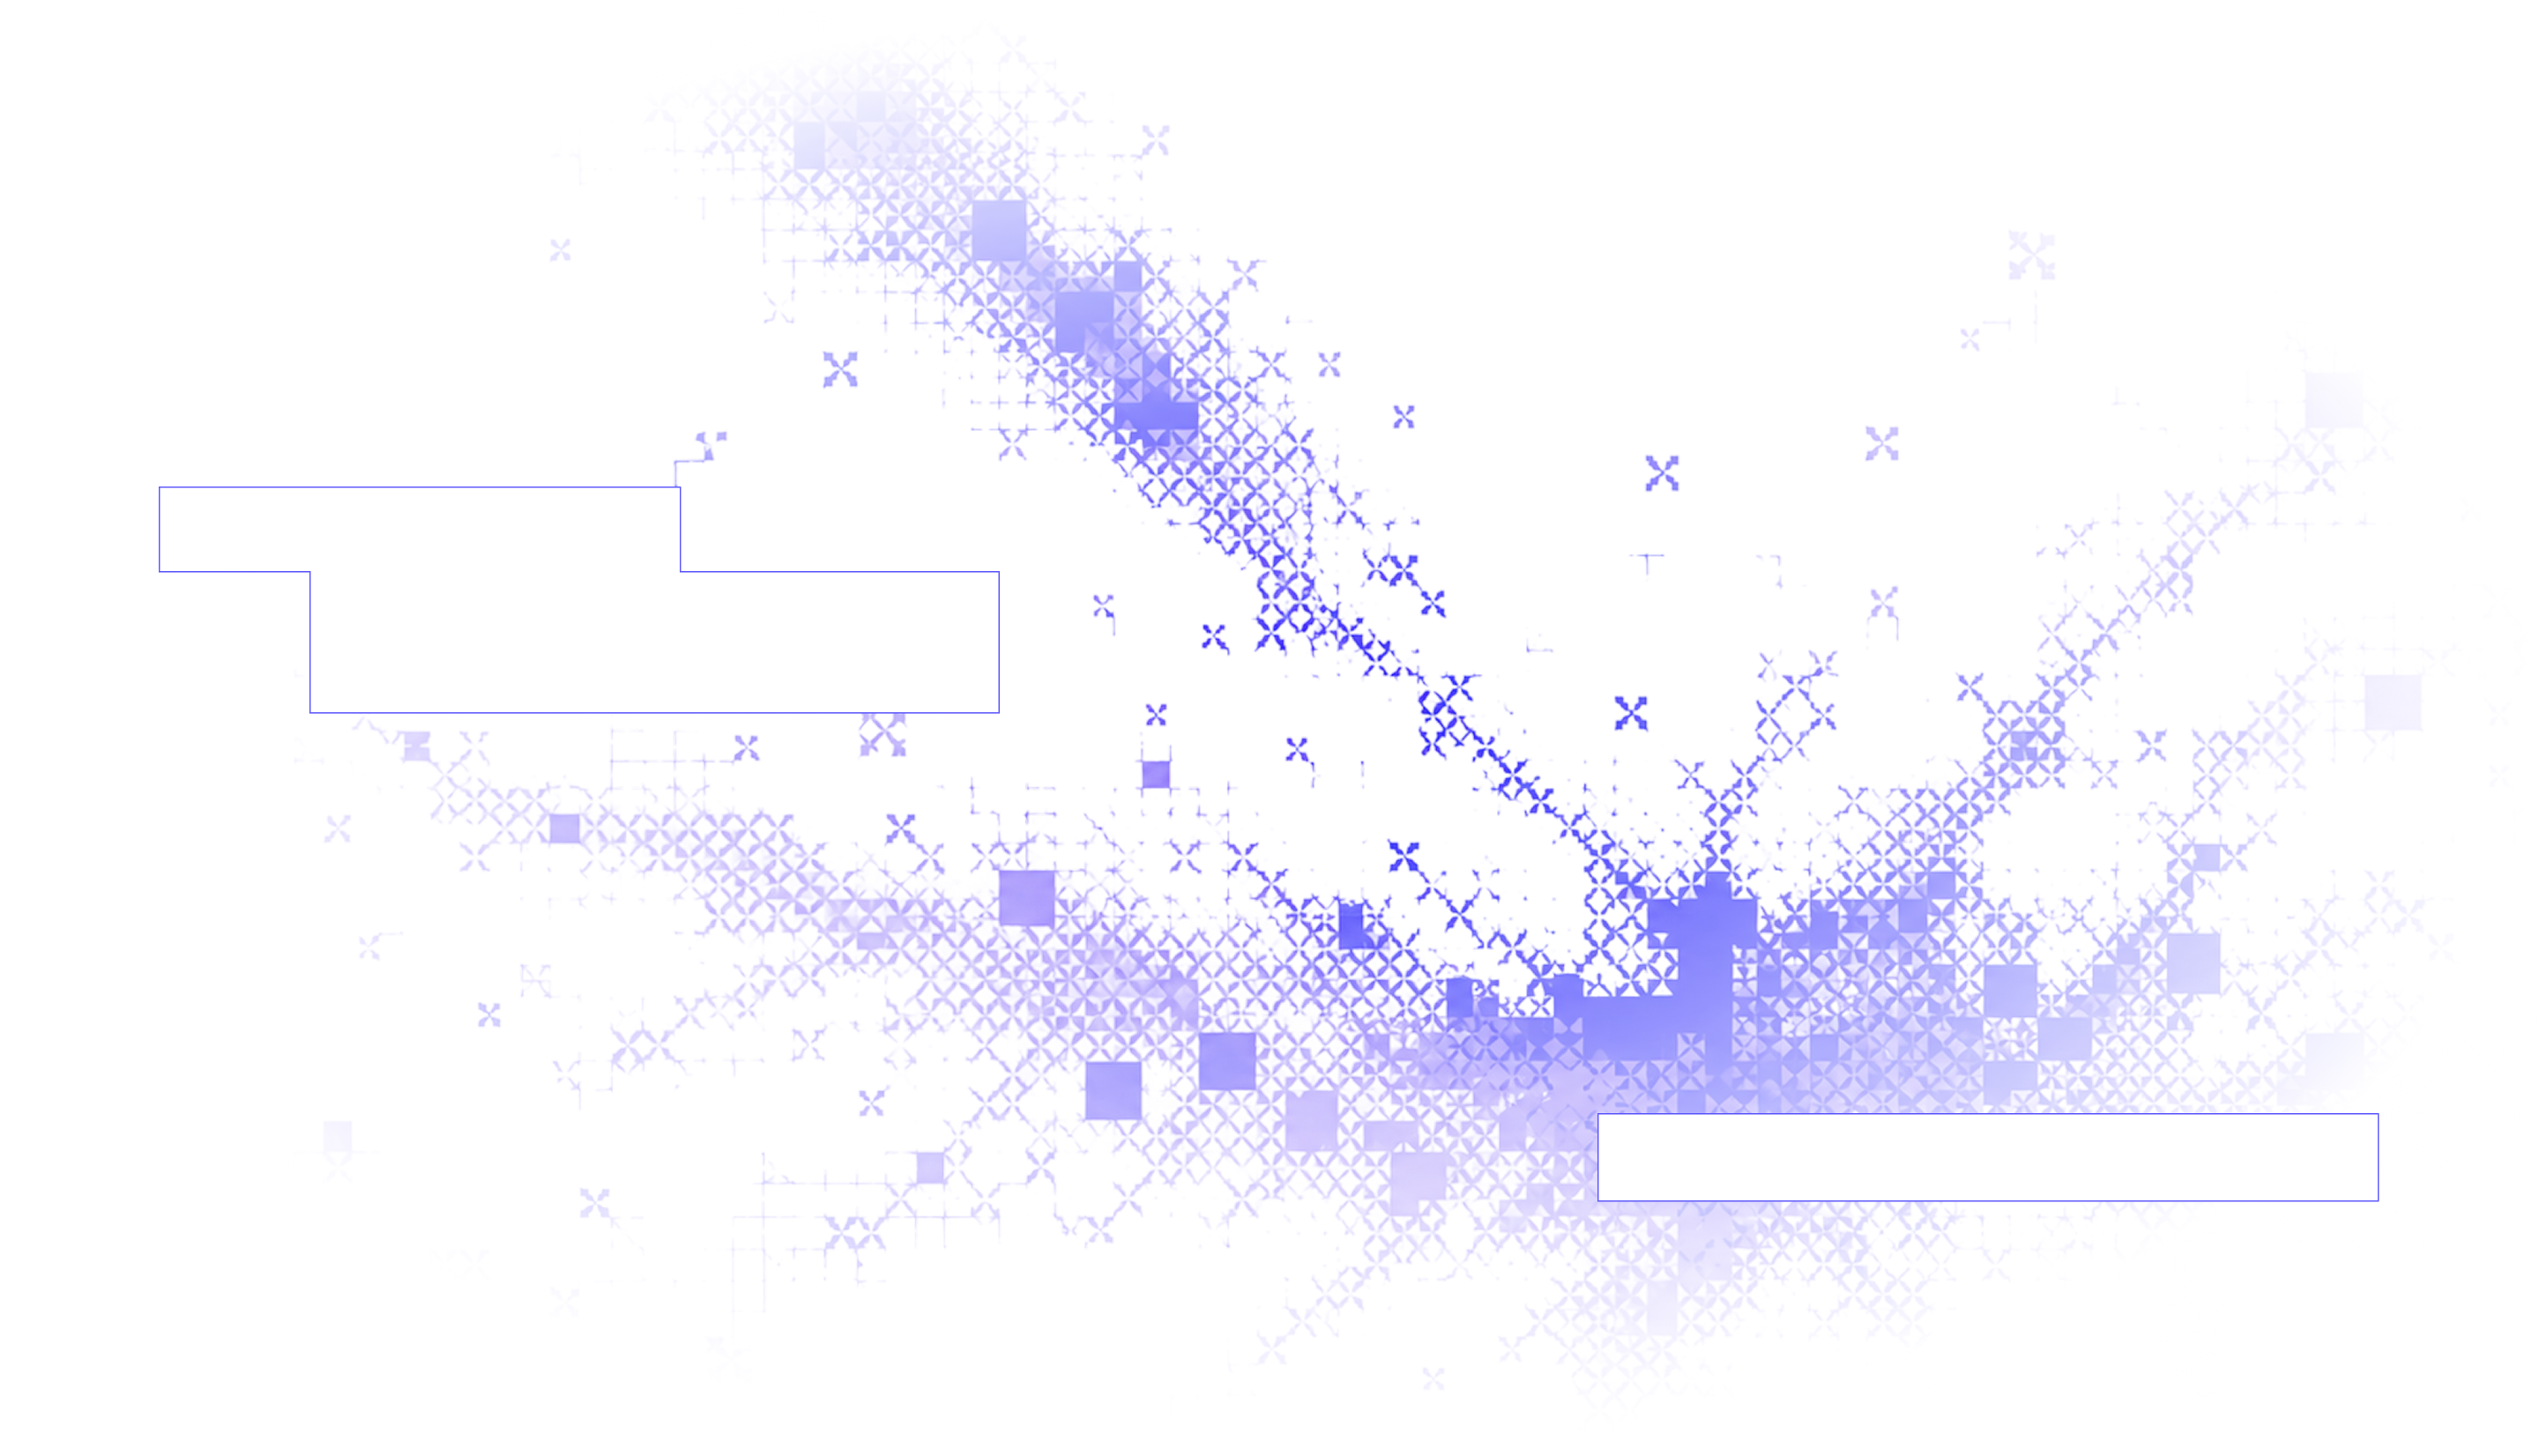
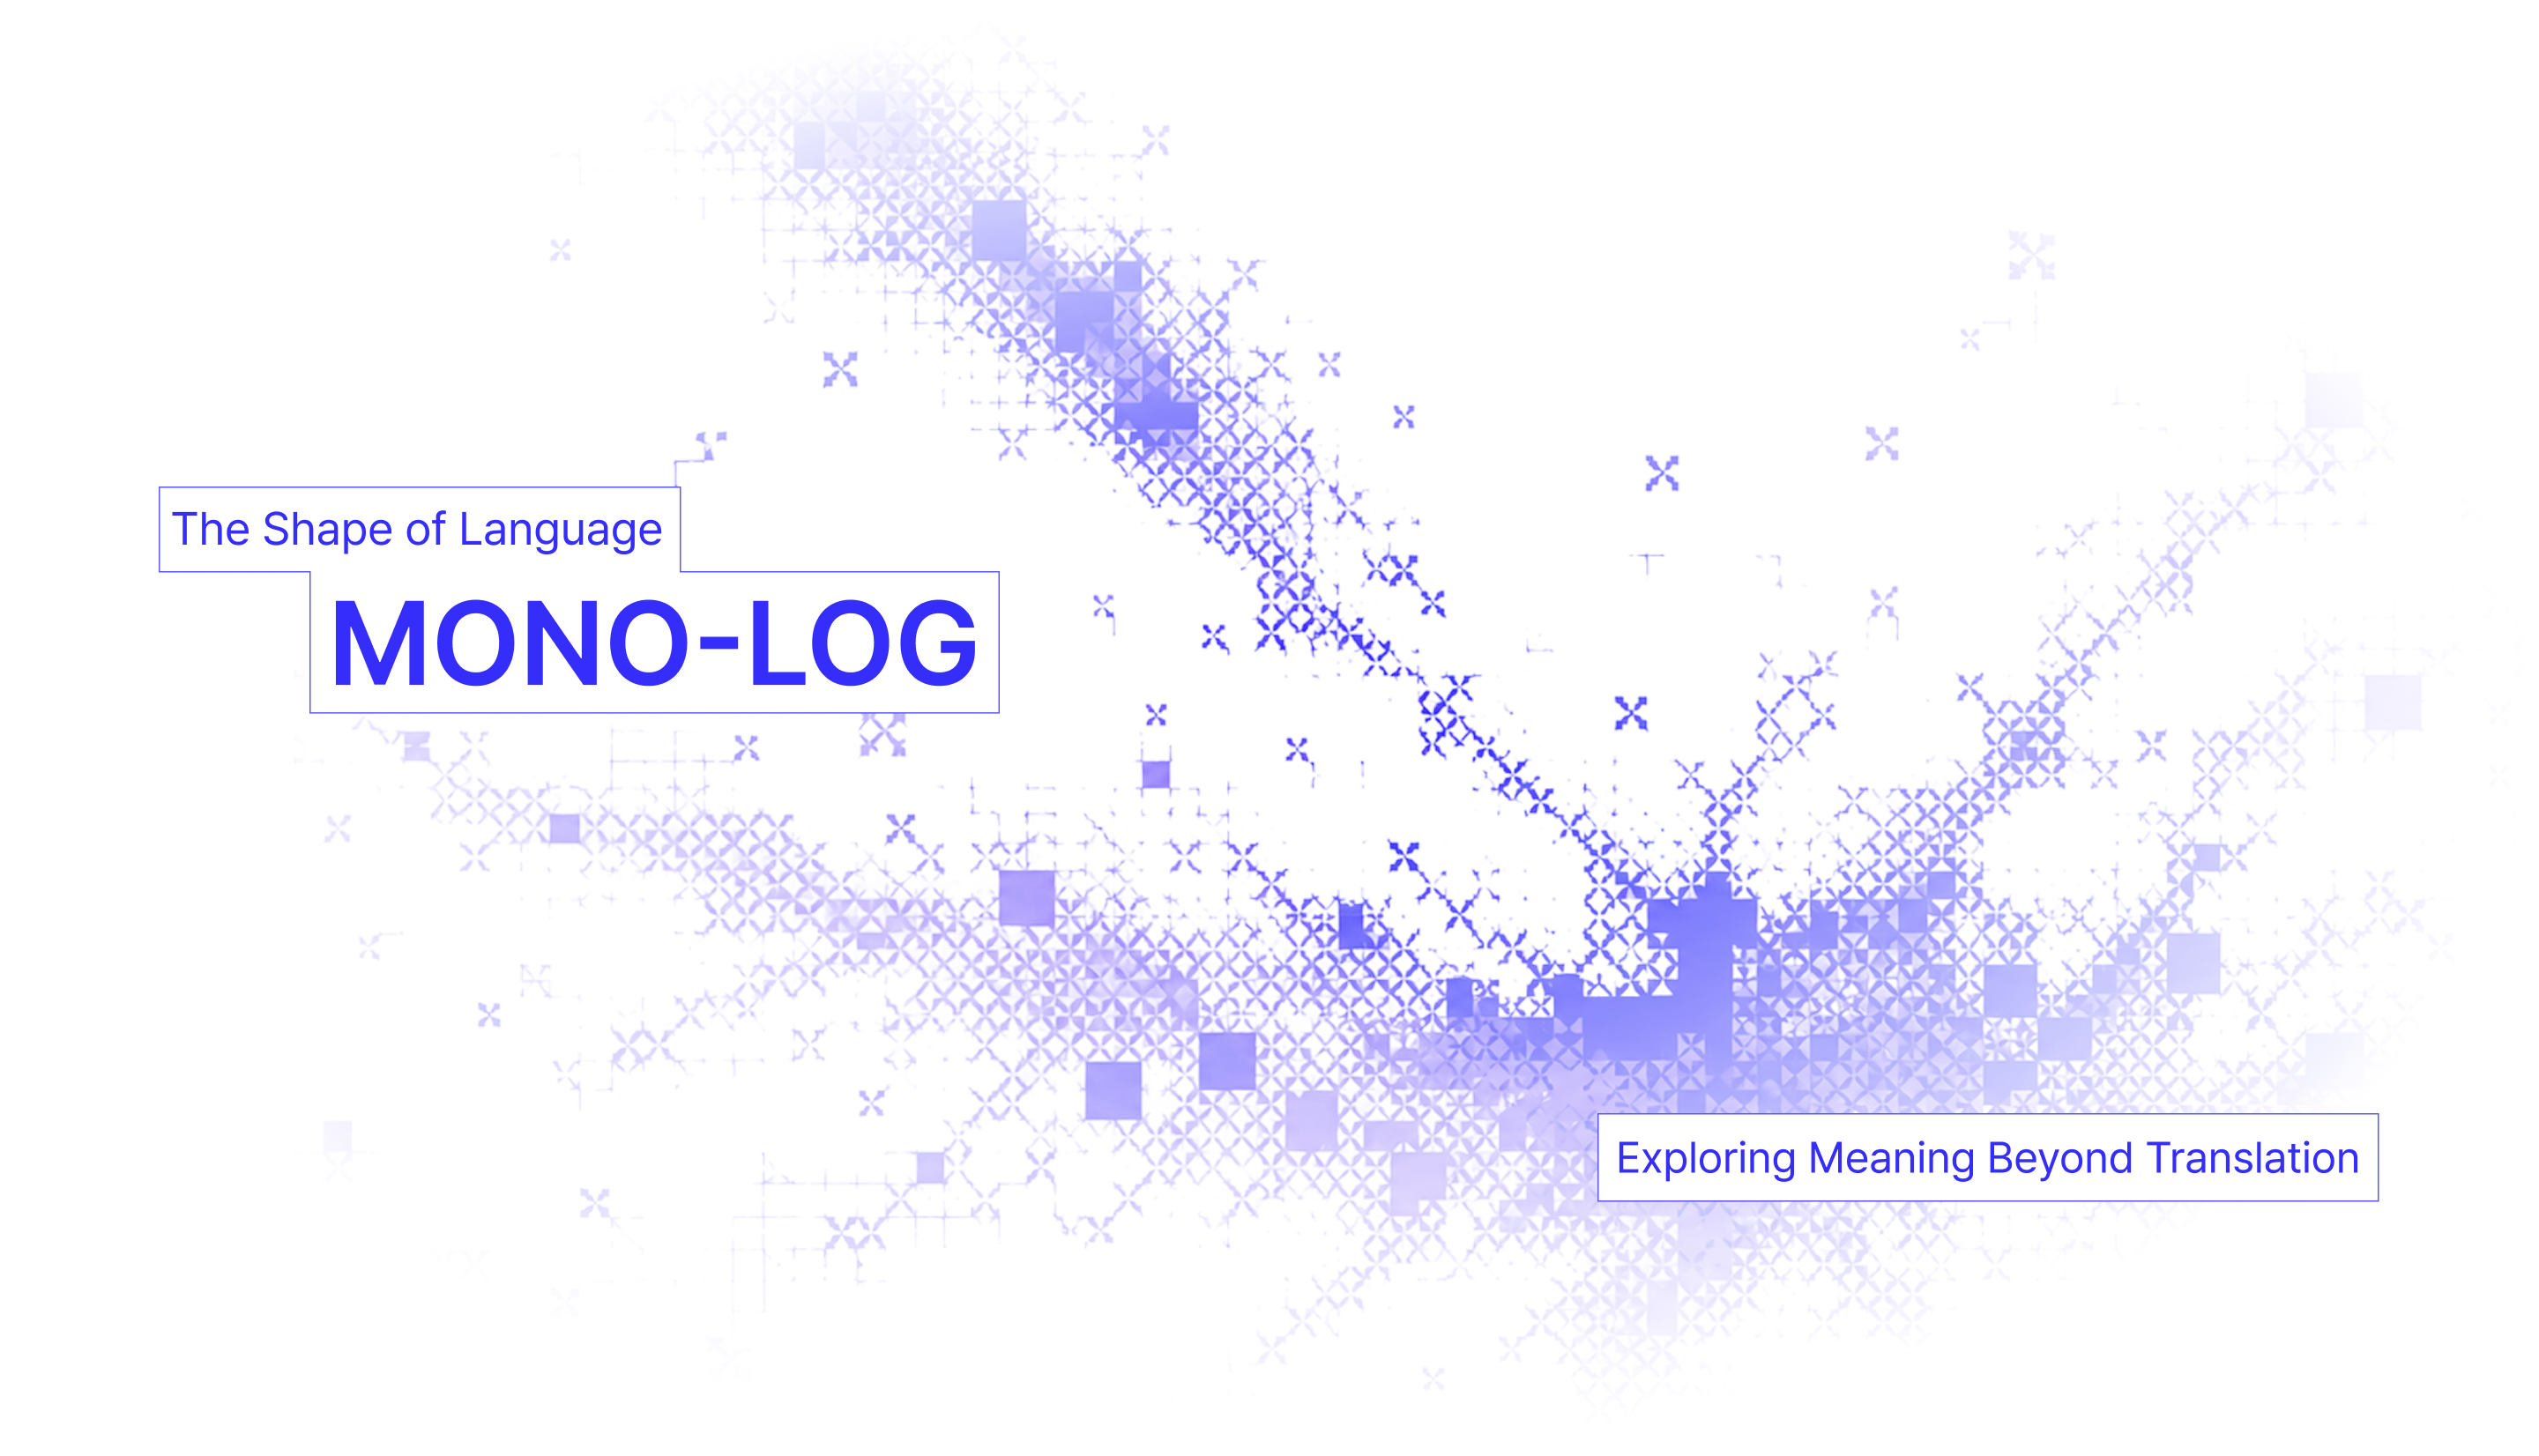
commit1

Changed region(s): [[0.0625, 0.3396, 0.4062, 0.4939], [0.625, 0.7718, 0.9375, 0.8027]]

diff --git a/src/styles/MainPage.css b/src/styles/MainPage.css
@@ -34,35 +34,6 @@
   user-select: none;
 }
 
-.hero_title {
-  position: absolute;
-  z-index: 2;
-  color: #2934ff;
-  left: 248px;
-  top: 505px;
-  margin: 0;
-  font-size: 90px;
-  font-weight: 600;
-}
-
-.hero_label {
-  position: absolute;
-  z-index: 2;
-  color: #2934ff;
-  font-size: 35px;
-  left: 138px;
-  top: 451px;
-}
-
-.hero_sub_txt {
-  position: absolute;
-  z-index: 2;
-  color: #2934ff;
-  font-size: 34px;
-  right: 140px;
-  top: 929px;
-}
-
 /* ============== 메인 소개 섹션 ================== */
 .about_section {
   padding: 300px 0 200px;
@@ -315,24 +286,7 @@
     --hero-image-fit: cover;
   }
 
-  .hero_title {
-    left: 230px;
-    top: 357px;
-    font-size: 65px;
-  }
-
-  .hero_label {
-    left: 143px;
-    top: 317px;
-    font-size: 26px;
-  }
-
-  .hero_sub_txt {
-    right: 145px;
-    top: 673px;
-    font-size: 25px;
-  }
-
+  
   .about_section {
     padding: 160px 0 150px;
   }
@@ -418,9 +372,11 @@
   }
 
   .language_card.cn {
-    left: 39.5%;
+    left: 38%;
     top: 30%;
   }
+
+  
 
   .language_card.en {
     top: 70%;
@@ -509,6 +465,8 @@
     position: static;
     width: 100%;
   }
+
+  
 
   .language_piece_copy {
     position: static;

diff --git a/src/data/siteContent.js b/src/data/siteContent.js
@@ -42,22 +42,11 @@ import madi02Kr from "../img/madi/img5.png";
 import madi02Jp from "../img/madi/img6.png";
 import madi02Cn from "../img/madi/img7.png";
 import madi02En from "../img/madi/img8.png";
-import madi03Kr from "../img/madi/img9.png";
-import madi03Jp from "../img/madi/img10.png";
-import madi03Cn from "../img/madi/img11.png";
-import madi03En from "../img/madi/img12.png";
 import madi04Kr from "../img/madi/img13.png";
 import madi04Jp from "../img/madi/img14.png";
 import madi04Cn from "../img/madi/img15.png";
 import madi04En from "../img/madi/img16.png";
-import madi06Kr from "../img/madi/img21.png";
 import madi06Jp from "../img/madi/img22.png";
-import madi06Cn from "../img/madi/img23.png";
-import madi06En from "../img/madi/img24.png";
-import madi07Kr from "../img/madi/img25.png";
-import madi07Jp from "../img/madi/img26.png";
-import madi07Cn from "../img/madi/img27.png";
-import madi07En from "../img/madi/img28.png";
 import madi08Kr from "../img/madi/img29.png";
 import madi08Jp from "../img/madi/img30.png";
 import madi08Cn from "../img/madi/img31.png";
@@ -140,10 +129,10 @@ export const madiItems = [
     situation: "비밀을 말할 때 | 조심해야 할 이야기를 나눌 때 | 말과 행동을 신중히 해야 할 때",
     note: "공동체 속에서 말의 책임과 신중함을 강조하는 표현입니다.",
     expressions: [
-      { lang: "한국어", image: madi03Kr, phrase: "낮말은 새가 듣고 밤말은 쥐가 듣는다", meaning: "낮에 하는 말은 새가 듣고 밤에 하는 말은 쥐가 듣는다." },
-      { lang: "일본어", image: madi03Jp, phrase: "壁をすれば影がさす", meaning: "누군가의 이야기를 하면 그 사람이 나타난다." },
-      { lang: "중국어", image: madi03Cn, phrase: "隔墙有耳", meaning: "벽 너머에도 귀가 있다." },
-      { lang: "영어", image: madi03En, phrase: "Walls have ears.", meaning: "벽에도 귀가 있다." },
+      { lang: "한국어", image: madi13Kr, phrase: "낮말은 새가 듣고 밤말은 쥐가 듣는다", meaning: "낮에 하는 말은 새가 듣고 밤에 하는 말은 쥐가 듣는다." },
+      { lang: "일본어", image: madi13Jp, phrase: "壁をすれば影がさす", meaning: "누군가의 이야기를 하면 그 사람이 나타난다." },
+      { lang: "중국어", image: madi13En, phrase: "隔墙有耳", meaning: "벽 너머에도 귀가 있다." },
+      { lang: "영어", image: madi13En, phrase: "Walls have ears.", meaning: "벽에도 귀가 있다." },
     ],
   },
   {
@@ -188,10 +177,10 @@ export const madiItems = [
     situation: "처음부터 완벽할 수 없을 때",
     note: "성장과 숙련은 시작의 어색함을 통과하며 만들어집니다.",
     expressions: [
-      { lang: "한국어", image: madi06Kr, phrase: "첫술에 배부르랴", meaning: "처음부터 만족스러운 결과를 기대하기 어렵다." },
-      { lang: "일본어", image: madi06Jp, phrase: "千里の道も一歩から", meaning: "천 리 길도 한 걸음부터." },
-      { lang: "중국어", image: madi06Cn, phrase: "万事开头难", meaning: "모든 일은 시작이 어렵다." },
-      { lang: "영어", image: madi06En, phrase: "Rome was not built in a day.", meaning: "큰 일은 하루아침에 완성되지 않는다." },
+      { lang: "한국어", image: madi02Kr, phrase: "첫술에 배부르랴", meaning: "처음부터 만족스러운 결과를 기대하기 어렵다." },
+      { lang: "일본어", image: madi02Jp, phrase: "千里の道も一歩から", meaning: "천 리 길도 한 걸음부터." },
+      { lang: "중국어", image: madi02Cn, phrase: "万事开头难", meaning: "모든 일은 시작이 어렵다." },
+      { lang: "영어", image: madi02En, phrase: "Rome was not built in a day.", meaning: "큰 일은 하루아침에 완성되지 않는다." },
     ],
   },
   {
@@ -204,10 +193,10 @@ export const madiItems = [
     situation: "상대의 호의를 마주할 때",
     note: "웃음과 부드러운 태도는 갈등의 날을 낮춥니다.",
     expressions: [
-      { lang: "한국어", image: madi07Kr, phrase: "웃는 얼굴에 침 못 뱉는다", meaning: "좋은 태도로 대하는 사람에게 모질게 하기 어렵다." },
-      { lang: "일본어", image: madi07Jp, phrase: "笑う門には福来る", meaning: "웃음이 있는 곳에 복이 온다." },
-      { lang: "중국어", image: madi07Cn, phrase: "伸手不打笑脸人", meaning: "웃는 얼굴의 사람은 때리지 못한다." },
-      { lang: "영어", image: madi07En, phrase: "A smile disarms.", meaning: "미소는 경계를 낮춘다." },
+      { lang: "한국어", image: madi04Kr, phrase: "웃는 얼굴에 침 못 뱉는다", meaning: "좋은 태도로 대하는 사람에게 모질게 하기 어렵다." },
+      { lang: "일본어", image: madi04Jp, phrase: "笑う門には福来る", meaning: "웃음이 있는 곳에 복이 온다." },
+      { lang: "중국어", image: madi04Cn, phrase: "伸手不打笑脸人", meaning: "웃는 얼굴의 사람은 때리지 못한다." },
+      { lang: "영어", image: madi04En, phrase: "A smile disarms.", meaning: "미소는 경계를 낮춘다." },
     ],
   },
   {
@@ -332,10 +321,10 @@ export const madiItems = [
     situation: "좋은 일도 기본이 채워져야 즐길 수 있을 때",
     note: "언어는 감정뿐 아니라 몸의 리듬까지 기억합니다.",
     expressions: [
-      { lang: "한국어", image: madi15Kr, phrase: "금강산도 식후경", meaning: "아무리 좋은 것도 먹은 뒤에야 즐길 수 있다." },
-      { lang: "일본어", image: madi15Jp, phrase: "腹が減っては戦はできぬ", meaning: "배가 고프면 싸울 수 없다." },
-      { lang: "중국어", image: madi15Cn, phrase: "民以食为天", meaning: "사람에게 먹는 것은 하늘처럼 중요하다." },
-      { lang: "영어", image: madi15En, phrase: "An army marches on its stomach.", meaning: "군대도 먹어야 움직인다." },
+      { lang: "한국어", image: madi02Cn, phrase: "금강산도 식후경", meaning: "아무리 좋은 것도 먹은 뒤에야 즐길 수 있다." },
+      { lang: "일본어", image: madi06Jp, phrase: "腹が減っては戦はできぬ", meaning: "배가 고프면 싸울 수 없다." },
+      { lang: "중국어", image: madi02En, phrase: "民以食为天", meaning: "사람에게 먹는 것은 하늘처럼 중요하다." },
+      { lang: "영어", image: madi02En, phrase: "An army marches on its stomach.", meaning: "군대도 먹어야 움직인다." },
     ],
   },
 ];

diff --git a/src/pages/MainPage.jsx b/src/pages/MainPage.jsx
@@ -97,11 +97,7 @@ function MainPage() {
       <section className="home_hero">
         <img className="hero_bg_image" src={heroBg} alt="" aria-hidden="true" />
         <Header />
-        <div className="hero_label">The Shape of Language</div>
-        <h1 className="hero_title">MONO-LOG</h1>
-        <div className="hero_sub_txt">
-          Exploring Meaning Beyond Translation
-        </div>
+        
       </section>
 
       <main>

diff --git a/src/styles/CommonPage.css b/src/styles/CommonPage.css
@@ -192,6 +192,7 @@
   font-weight: 500;
 }
 
+/* 소리 */
 .sori_card_grid {
   display: grid;
   grid-template-columns: repeat(3, minmax(0, 1fr));
@@ -309,6 +310,8 @@
   margin: 0;
 }
 
+
+/* 마디 */
 .madi_list {
   display: grid;
   gap: 14px;
@@ -498,6 +501,9 @@
 .madi_note strong {
   font-weight: 500;
 }
+
+
+/* 사이 */
 .sai_group_list {
   display: grid;
   gap: 80px;